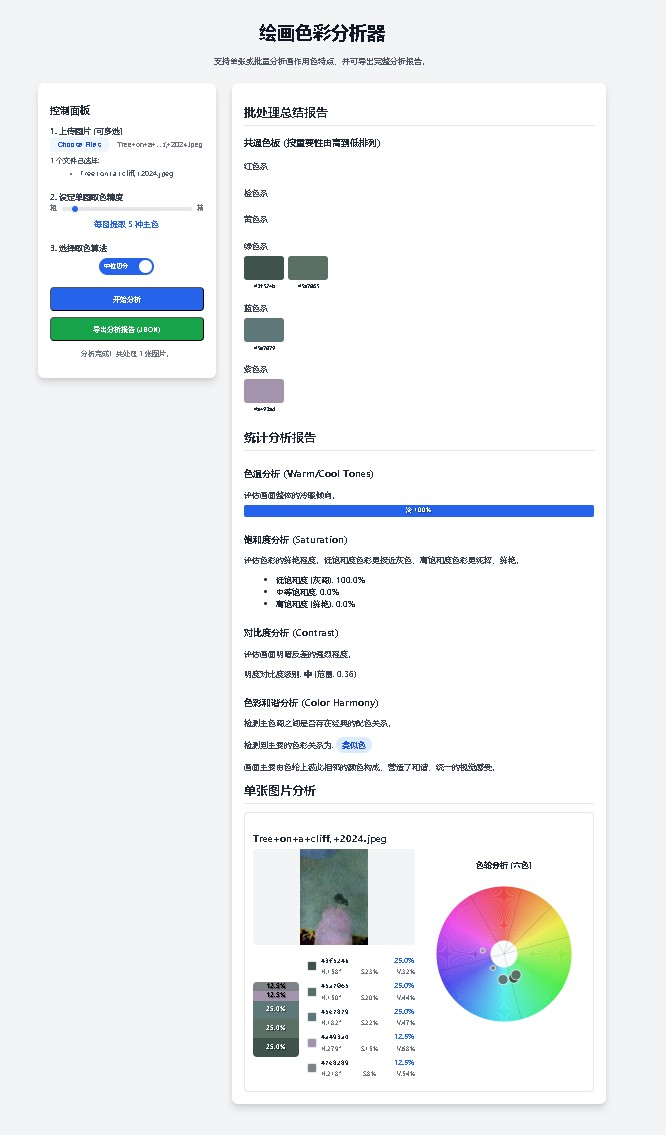
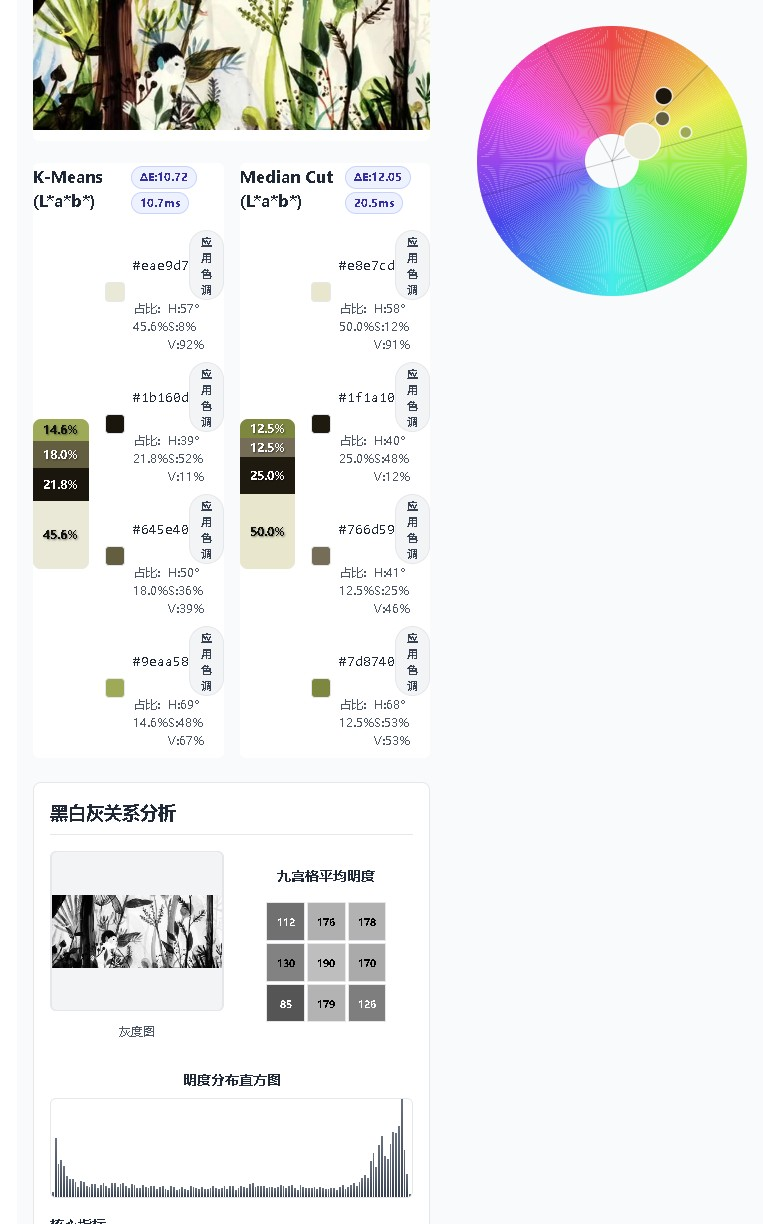
update

diff --git a/_posts/2025-08-10-misc-gallery-ColorAnalyzer.md b/_posts/2025-08-10-misc-gallery-ColorAnalyzer.md
@@ -8,7 +8,7 @@ description: "一个功能强大的网页版色彩分析工具"
 
 ## 🎨 在线使用工具
 
-<iframe src="/tools/ColorAnalyzer.html" width="100%" height="800px" style="border: 1px solid #ccc; border-radius: 8px;"></iframe>
+<iframe src="https://github.com/Zoe-B-Zhang/misc/tree/main/2_colorAnalyzer" width="100%" height="800px" style="border: 1px solid #ccc; border-radius: 8px;"></iframe>
 
 ---
 
@@ -24,9 +24,7 @@ description: "一个功能强大的网页版色彩分析工具"
 - **上传图片**：点击“上传图片”按钮，选择一张或多张图片，支持批量分析。
 - **调整设置**：
   - 设定单图取色精度：通过滑动条调整每张图片提取的主色数量。
-  - 选择取色算法：
-    - **K-Means（默认）**：提取画面色彩的“平均值”，结果具有代表性。
-    - **中位切分法**：提取画面中“实际存在”的颜色，结果更鲜艳。
+  - 选择取色算法，或者选中比较输出所有取色算法的结果，比较使用。
   - 忽略背景色：自动忽略占比最高且饱和度最低的颜色，聚焦核心色彩。
 - **开始分析**：点击“开始分析”按钮，等待处理完成。
 - **导出报告**：点击“导出分析报告”按钮，下载完整 JSON 数据报告。
@@ -48,24 +46,12 @@ description: "一个功能强大的网页版色彩分析工具"
 
 #### 📈 统计分析报告
 - **色彩比例**：总结各色系占比
+    支持将图片变成对应颜色的单色图片
 - **色温分析**：评估画作冷暖倾向
 - **饱和度分析**：判断色彩鲜艳度
 - **对比度分析**：分析明度与色相对比强度
 - **色彩和谐分析**：检测类似色、互补色、三色组等经典配色关系
+- **黑白灰分析**：灰度图，明度直方图等
 
----
-
-### 3. 背后原理
-
-- **取色原理**：使用 CIELAB 色彩空间进行聚类，更符合人眼感知。
-- **颜色分区**：采用六色分区逻辑，符合美术色彩理论。
-- **和谐分析**：
-  - 类似色：色相相邻
-  - 互补色：色相相差约 180°
-  - 三色组：色相构成等边三角形
-
----
-
-source code :src="/tools/ColorAnalyzer.html" or https://github.com/Zoe-B-Zhang/misc/tree/main/2_colorAnalyzer
 
 ---
